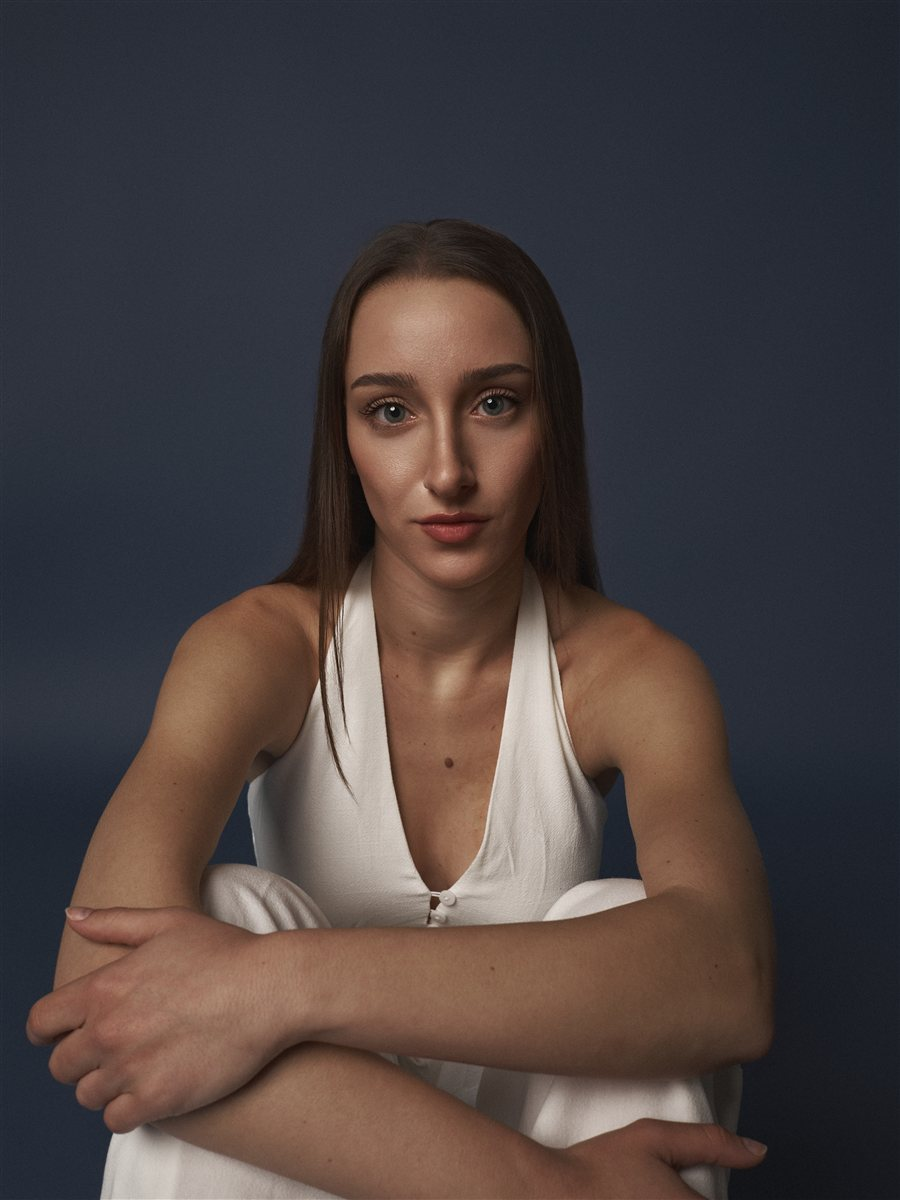
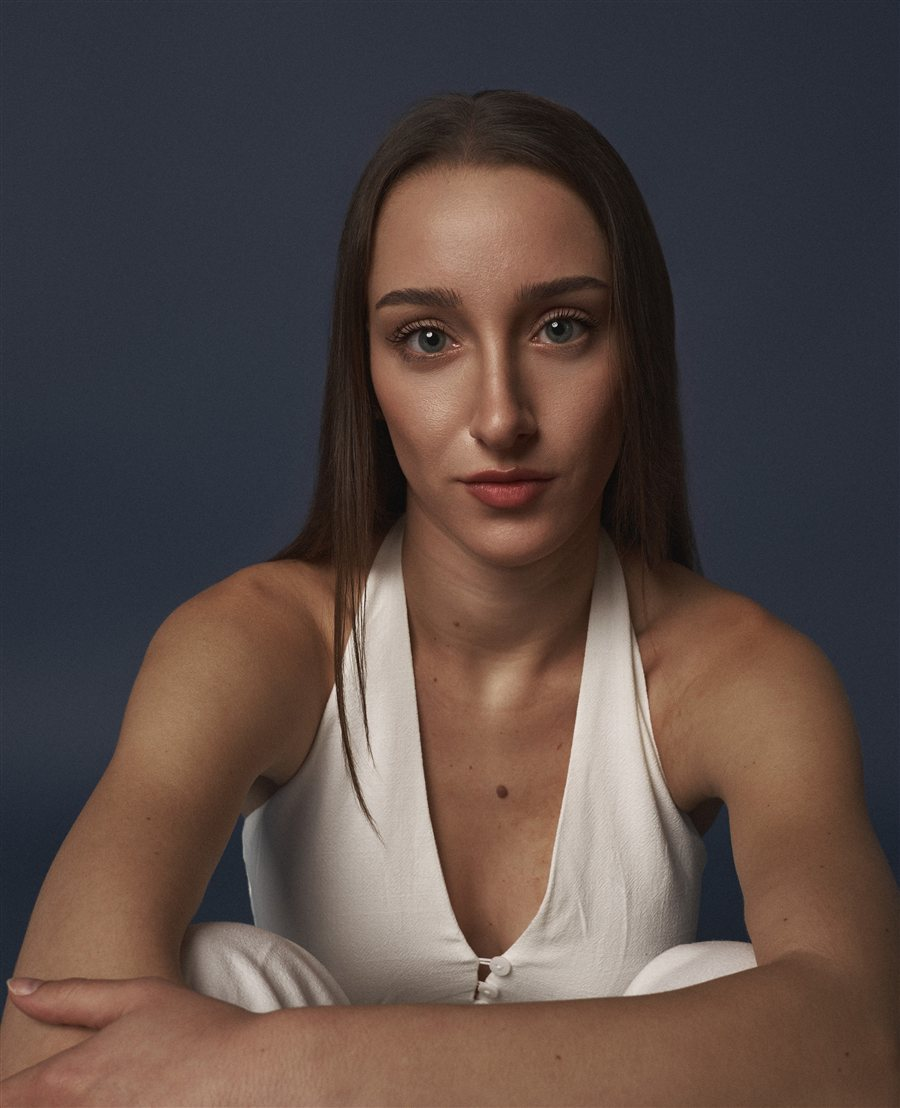
Use cropped about photo, match its height to text column, and update skills list

diff --git a/about.html b/about.html
@@ -109,13 +109,14 @@
                            </div>
                            <p>Laura Czarnik es una actriz polaco-madrileña que se mueve con la misma naturalidad entre el drama, la acción y la comedia física. Trilingüe en español, inglés y polaco, su origen europeo la convierte en una pieza poco común en el mapa de casting español: apta tanto para producciones nacionales como para coproducciones con Polonia y el resto de Europa del Este.
                             <br>Formada en Central de Cine y Work in Progress, ha protagonizado los videoclips "Tu nene" (Dasoul) y "Boomerang" (Adexe y Nau), y ha participado en cortometrajes como "Dissonantia", "Mirage" y "El Conticinio". Su cortometraje "Gracias por nada" ha sido premiado con el Premio del Jurado a Mejor Arte en Corto en el Festival La Raíz, y ha recibido nominaciones en Festimatge (31º Trofeu Torretes de Curtmetratges), el Festival de Cortos Rodinia, el FFICAB de Albacete y los IV Premis Costa Brava (Mejor Cortometraje y Mejor Guión Original o Adaptado).
-                            <br>Con 8 años de gimnasia rítmica, formación en danza desde niña y cursos de baile heels y lucha escénica, aprende coreografías y movimiento escénico con rapidez, aportando a cada personaje una base física entrenada.
+                            <br>Con 8 años de gimnasia rítmica y formación en danza desde niña en varios estilos, además de conocimientos básicos de lucha escénica y manejo de armas, aprende coreografías y movimiento escénico con rapidez, aportando a cada personaje una base física entrenada.
                            <div class="about-content3">
                               <div class="row">
                                  <div class="col-md-12">
                                     <ul class="green">
                                        <li>Idiomas: Español, inglés y polaco</li>
-                                       <li>Habilidades: Gimnasia rítmica, baile estilo heels, lucha escénica, programación, fotografía, etc</li>
+                                       <li>Habilidades: Gimnasia rítmica, danza en general</li>
+                                       <li>Conocimientos básicos: Lucha escénica y manejo de armas</li>
                                     </ul>
                                  </div>
                               </div>

diff --git a/index.html b/index.html
@@ -144,13 +144,14 @@
                            </div>
                            <p>Laura Czarnik es actriz polaco-madrileña, trilingüe en español, inglés y polaco.
                             <br>Su cortometraje "Gracias por nada" ha ganado el Premio del Jurado a Mejor Arte en Corto en el Festival La Raíz, con nominaciones en Festimatge, el Festival de Cortos Rodinia, el FFICAB de Albacete y los IV Premis Costa Brava.
-                            <br>Formada en Central de Cine y Work in Progress, combina 8 años de gimnasia rítmica con formación en baile, heels y lucha escénica.
+                            <br>Formada en Central de Cine y Work in Progress, combina 8 años de gimnasia rítmica con formación en danza en varios estilos y conocimientos básicos de lucha escénica y manejo de armas.
                            <div class="about-content3">
                               <div class="row">
                                  <div class="col-md-12">
                                     <ul class="green">
                                        <li>Idiomas: Español, inglés y polaco</li>
-                                       <li>Habilidades: Gimnasia rítmica, baile estilo heels, lucha escénica, programación, fotografía, etc</li>
+                                       <li>Habilidades: Gimnasia rítmica, danza en general</li>
+                                       <li>Conocimientos básicos: Lucha escénica y manejo de armas</li>
                                     </ul>
                                  </div>
                               </div>

diff --git a/css/style.css b/css/style.css
@@ -1610,6 +1610,12 @@ color: #000;
 }
 .s-about-img {
     margin-right: -50px;
+    height: 100%;
+}
+.s-about-img img {
+    width: 100%;
+    height: 100%;
+    object-fit: cover;
 }
 .ab-ul {
     margin-top: 30px;
